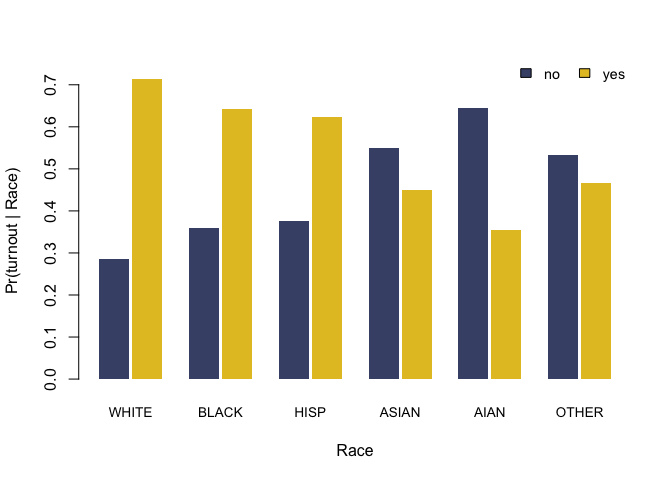
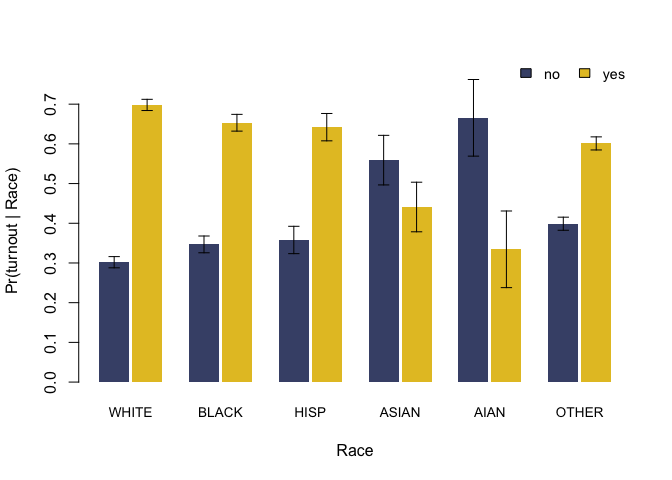
plot uncertainty & update readme [ci skip]

diff --git a/README.md b/README.md
@@ -73,23 +73,26 @@ head(r_probs)
 ```
 
 Computing regression estimates requires specifying a model structure.
-Here, we’ll let the relationship between turnout and race vary by ZIP
-code. This is the “no-pooling” model from McCartan et al.
+Here, we’ll use a Categorical-Dirichlet regression model that lets the
+relationship between turnout and race vary by ZIP code. This is the
+“no-pooling” model from McCartan et al. We’ll use bootstrapping to
+approximately measure the uncertainty in our estimates.
 
 ``` r
-fit = birdie(r_probs, turnout ~ proc_zip(zip), data=pseudo_vf)
-#> Using c(1+ε, 1+ε, ..., 1+ε) prior for Pr(X | R)
-#> This message is displayed once per session.
+fit = birdie(r_probs, turnout ~ proc_zip(zip), data=pseudo_vf, 
+             family=cat_dir(), algorithm="em_boot")
+#> Using weakly informative empirical Bayes prior for Pr(Y | R)
+#> This message is displayed once every 8 hours.
 
 print(fit)
-#> Multinomial-Dirichlet BIRDiE model
+#> Categorical-Dirichlet BIRDiE model
 #> Formula: turnout ~ proc_zip(zip)
 #>    Data: pseudo_vf
-#> Number of obs: 5,000; groups: 618
+#> Number of obs: 5,000
 #> Estimated distribution:
 #>     white black  hisp asian  aian other
-#> no  0.286 0.358 0.376  0.55 0.644 0.534
-#> yes 0.714 0.642 0.624  0.45 0.356 0.466
+#> no  0.302 0.347 0.358 0.559 0.666 0.399
+#> yes 0.698 0.653 0.642 0.441 0.334 0.601
 ```
 
 The `proc_zip()` function fills in missing ZIP codes, among other
@@ -101,37 +104,37 @@ estimated distributions (`plot()`).
 
 ``` r
 coef(fit)
-#>         white     black      hisp     asian      aian     other
-#> no  0.2855931 0.3583592 0.3761561 0.5501976 0.6443233 0.5341151
-#> yes 0.7144069 0.6416408 0.6238439 0.4498024 0.3556767 0.4658849
+#>         white     black      hisp    asian      aian     other
+#> no  0.3019191 0.3467984 0.3579254 0.559023 0.6655915 0.3988616
+#> yes 0.6980809 0.6532016 0.6420746 0.440977 0.3344085 0.6011384
 
 head(fitted(fit))
 #> # A tibble: 6 × 6
-#>   pr_white pr_black  pr_hisp pr_asian  pr_aian pr_other
-#>      <dbl>    <dbl>    <dbl>    <dbl>    <dbl>    <dbl>
-#> 1 9.46e- 1 3.68e-15 1.41e- 2 3.81e-14 1.21e- 2 2.77e- 2
-#> 2 2.77e-15 9.99e- 1 5.45e-15 5.35e-15 1.25e- 3 1.99e-14
-#> 3 9.52e- 1 7.52e- 3 7.34e-15 4.13e-16 1.95e-14 4.01e- 2
-#> 4 6.18e- 1 3.81e- 1 3.54e-15 3.26e-13 1.56e- 3 3.02e-13
-#> 5 9.90e- 1 4.33e- 3 3.00e-11 5.48e- 3 1.10e-14 1.83e-13
-#> 6 5.63e- 1 2.65e- 1 9.76e- 2 6.42e- 3 2.74e- 3 6.55e- 2
+#>   pr_white pr_black pr_hisp pr_asian  pr_aian pr_other
+#>      <dbl>    <dbl>   <dbl>    <dbl>    <dbl>    <dbl>
+#> 1   0.962   0.00339 0.00974 0.000499 0.00581    0.0189
+#> 2   0.0439  0.927   0.00821 0.000922 0.000897   0.0186
+#> 3   0.942   0.00490 0.0228  0.00491  0.000331   0.0249
+#> 4   0.579   0.362   0.0240  0.000860 0.000739   0.0329
+#> 5   0.964   0.00145 0.0149  0.00251  0.00224    0.0146
+#> 6   0.547   0.305   0.0886  0.00378  0.00141    0.0541
 
 tidy(fit)
 #> # A tibble: 12 × 3
 #>    turnout race  estimate
 #>    <chr>   <chr>    <dbl>
-#>  1 no      white    0.286
-#>  2 yes     white    0.714
-#>  3 no      black    0.358
-#>  4 yes     black    0.642
-#>  5 no      hisp     0.376
-#>  6 yes     hisp     0.624
-#>  7 no      asian    0.550
-#>  8 yes     asian    0.450
-#>  9 no      aian     0.644
-#> 10 yes     aian     0.356
-#> 11 no      other    0.534
-#> 12 yes     other    0.466
+#>  1 no      white    0.302
+#>  2 yes     white    0.698
+#>  3 no      black    0.347
+#>  4 yes     black    0.653
+#>  5 no      hisp     0.358
+#>  6 yes     hisp     0.642
+#>  7 no      asian    0.559
+#>  8 yes     asian    0.441
+#>  9 no      aian     0.666
+#> 10 yes     aian     0.334
+#> 11 no      other    0.399
+#> 12 yes     other    0.601
 
 plot(fit)
 ```
